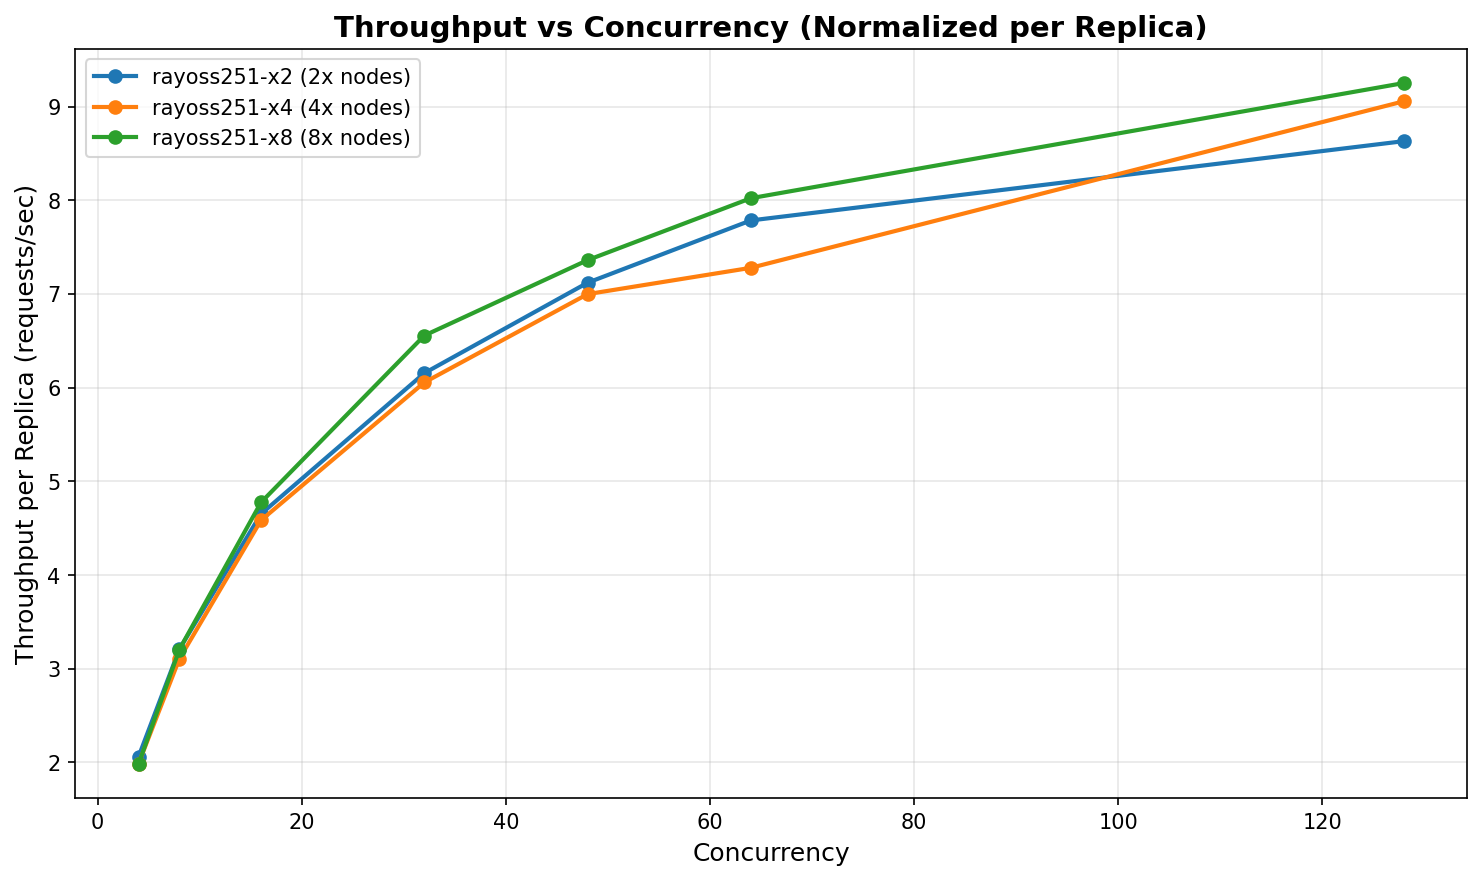
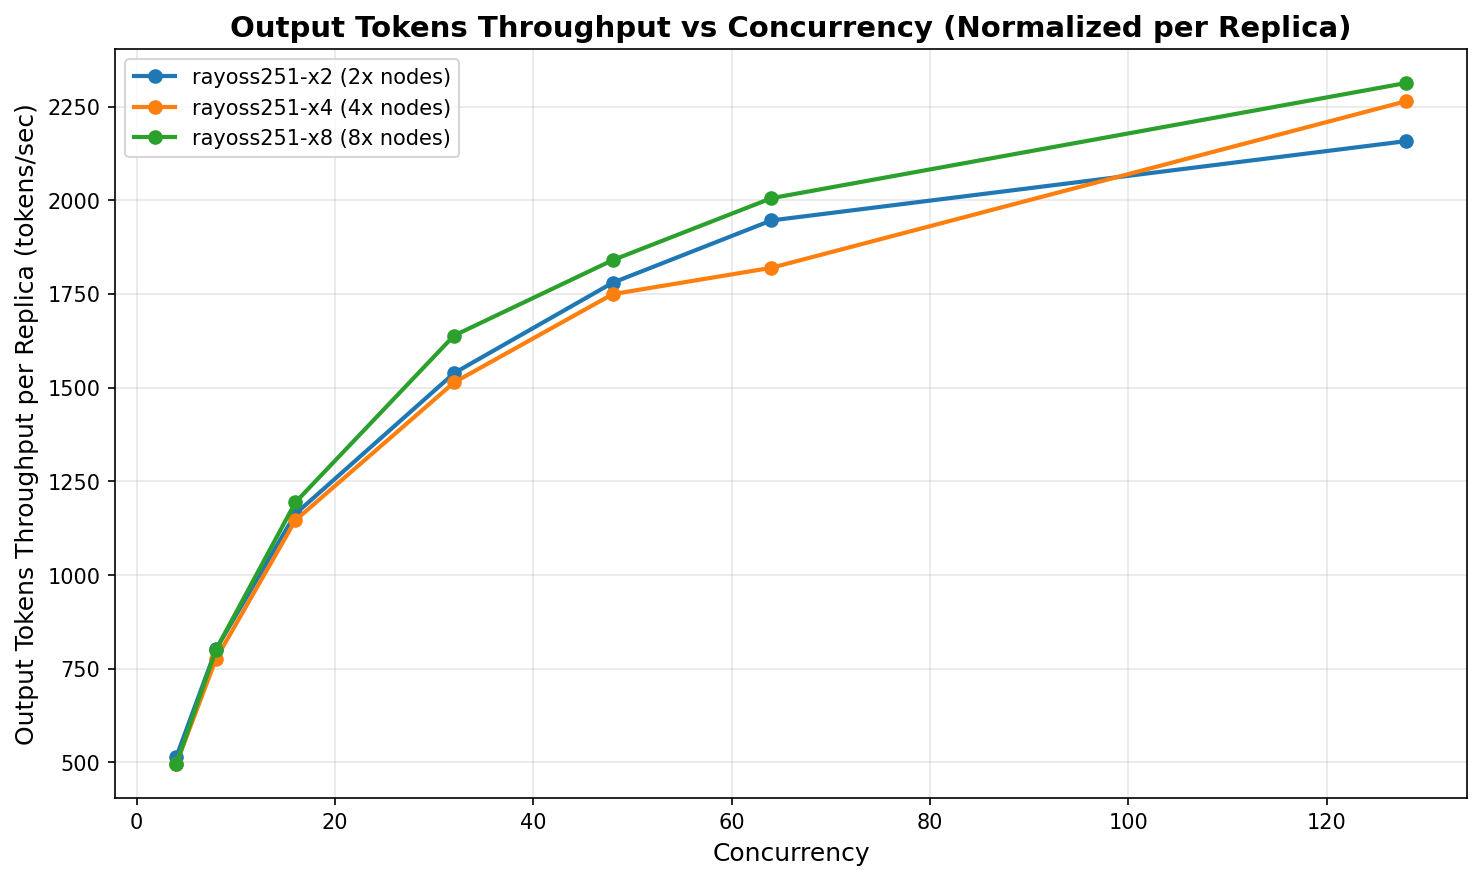
wip

diff --git a/horizontal_scaling/plot_results.py b/horizontal_scaling/plot_results.py
@@ -1,7 +1,7 @@
 #!/usr/bin/env python3
 """
 Simple plotting script for benchmark results.
-Plots throughput vs concurrency for aggregated results.
+Plots output tokens throughput vs concurrency for aggregated results.
 """
 
 import json
@@ -43,8 +43,8 @@ def load_results(exp_dir):
                 conc_match = re.search(r'conc(\d+)', json_file.name)
                 if conc_match:
                     conc = int(conc_match.group(1))
-                    # Use request_throughput as the throughput metric
-                    throughput = data.get('request_throughput')
+                    # Use output_throughput as the throughput metric
+                    throughput = data.get('output_throughput')
                     if throughput is not None:
                         results[conc] = throughput
         except Exception as e:
@@ -54,7 +54,7 @@ def load_results(exp_dir):
 
 
 def plot_results(exp_names, output_file=None):
-    """Plot throughput vs concurrency for multiple experiments, normalized per replica."""
+    """Plot output tokens throughput vs concurrency for multiple experiments, normalized per replica."""
     data_by_exp = {}
     
     for exp_name in exp_names:
@@ -90,8 +90,8 @@ def plot_results(exp_names, output_file=None):
         plt.plot(concurrency, throughput, marker='o', label=label, linewidth=2, markersize=6)
     
     plt.xlabel('Concurrency', fontsize=12)
-    plt.ylabel('Throughput per Replica (requests/sec)', fontsize=12)
-    plt.title('Throughput vs Concurrency (Normalized per Replica)', fontsize=14, fontweight='bold')
+    plt.ylabel('Output Tokens Throughput per Replica (tokens/sec)', fontsize=12)
+    plt.title('Output Tokens Throughput vs Concurrency (Normalized per Replica)', fontsize=14, fontweight='bold')
     plt.grid(True, alpha=0.3)
     plt.legend(loc='best')
     plt.tight_layout()

diff --git a/horizontal_scaling/README.md b/horizontal_scaling/README.md
@@ -178,7 +178,8 @@ just results bm_results/*turbo* plots/turbo.png
 
 ### Analysis
 
-The following plots compare horizontal scaling characteristics between Ray Serve with open-source Ray (left) and Anyscale runtime optimizations (right):
+The following plots compare horizontal scaling characteristics between Ray Serve with open-source Ray (left) and Anyscale runtime optimizations (right).
+The bencmark is done on `gpt-oss-120b`, with TP4, and fp8 kv-cache on a workload with 5000:250 input/output distribution.
 
 <table>
   <tr>
